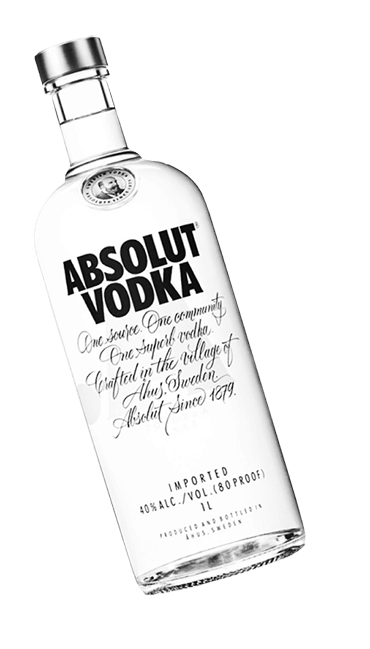
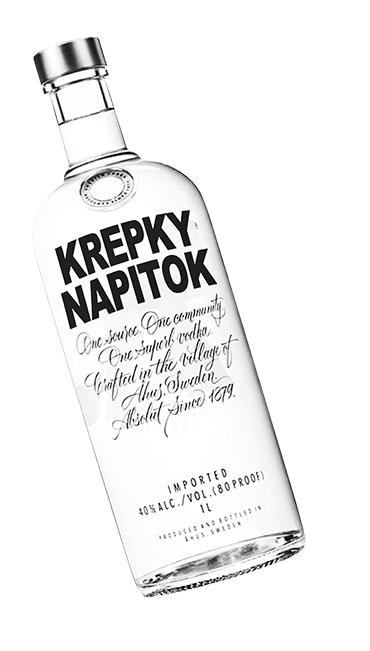
заменил водку, убрал лишний state

diff --git a/src/components/App/App.jsx b/src/components/App/App.jsx
@@ -11,8 +11,7 @@ export class App extends Component {
         menu: false,
         first: false,
         second: false,
-        content: null,
-        text: 'Коллекция коллекционеров'
+        content: null
     }
 
     targetElement = null;
@@ -57,10 +56,6 @@ export class App extends Component {
         })
     }
 
-    getText = () => {
-        return this.state.content.title;
-    }
-
     toggleState = (name) => {
         this.setState({
             [name]: !this.state[`${name}`]
@@ -74,14 +69,13 @@ export class App extends Component {
     };
 
     render() {
-        const {author, menu, first, content, text} = this.state;
+        const {author, menu, first, content} = this.state;
 
         return (
             <>
                 <Header handler={this.onClickMenu}
                         getArticle={this.getArticle}
                         toggleState={this.toggleState}
-                        text={text}
                         opened={menu}/>
 
                 {author ? <AutorBlock handler={this.onClickAuthor} onClose={this.onClickAuthor}/> : null}

diff --git a/src/components/Header/Header.jsx b/src/components/Header/Header.jsx
@@ -2,13 +2,13 @@ import cn from 'classnames';
 import {Logo, Burger, Menu} from '../../components';
 import styles from './Header.module.scss';
 
-export const Header = ({opened, text, handler, toggleState, getArticle}) => {
+export const Header = ({opened, handler, toggleState, getArticle}) => {
 
     return (
         <header className={styles.header} 
                 id="header">
             <Logo className={styles.logo} />
-            <div className={cn('text-body', styles.title)}>{text}</div>
+            <div className={cn('text-body', styles.title)}>Коллекция коллекционеров</div>
             <Burger handler={handler}
                     opened={opened}/>
             <Menu handler={handler}
